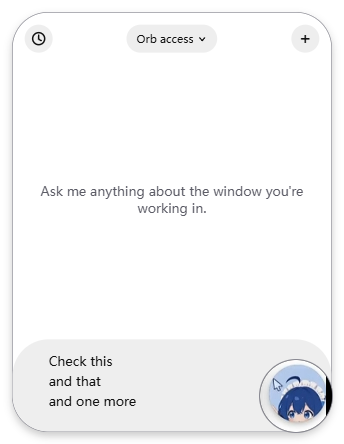
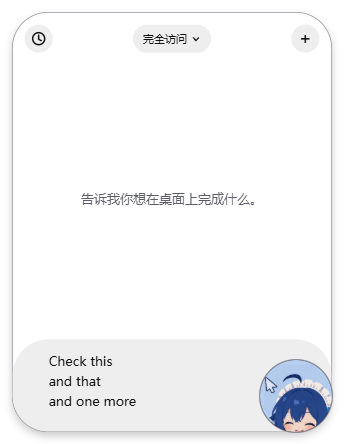
test: record Orb experience lifecycle and native input evidence

Changed region(s): [[0.1163, 0.4099, 0.8721, 0.4977], [0.7558, 0.7905, 0.9884, 0.9955], [0.407, 0.0586, 0.5814, 0.1171]]

diff --git a/doc/reference-playbook.md b/doc/reference-playbook.md
@@ -282,7 +282,7 @@ D:\workself\pi-orb\
 | 缺口 | 事实 | 影响 | 建议动作 |
 |---|---|---|---|
 | `coordinate-mode.ts` 只剩类型 | **已处理**：文件删除，像素模式未实现这一事实现在写在 `coordinates.ts` 的文件头里 | 像素编码（pixel 模式）在 pi-orb 不可表达 | 需要 pixel 时按固定提交恢复该文件与 `modelPositionToHid` 调用方，不要重新推导 |
-| 后端 7 个方法只声明未调用 | `inspectForeground`、`listApps`、`openApp`、`openInBrowser`、`openInFinder`、`copyImageToClipboard`、`backend.withGuiTurn` 无调用方（`ReferenceWindowsDriver` 只用 `listWindows`/`focusWindow` + `listScreens`/`capture`/`click`/`typeText`/`hotkey`/`longPress`/`drag`/`scroll`） | 模型拿不到 `inspectForeground` 的前台元数据（前台／非前台提示）；`list_apps`/`open_app`/`open_in_browser`/`open_in_finder`/`screenshot` 语义无落点 | 与 §7.1 的工具补齐一起做：先接进驱动与 Pi 工具，再接授权边界。`open_app` 另受 P2-04 的“目标重绑定规则确定后才开放”约束 |
+| 后端声明与实际调用范围 | `inspectForeground`、`listApps` 已接入；`openApp` 保留在 backend 合同，但 Pi 的切换应用使用 `activateApp`；`openInBrowser/openInFinder/copyImageToClipboard/backend.withGuiTurn` 不在生产调用链 | 这些未开放方法不构成已支持的工具；主进程自身 `withGuiTurn` 配对参考 overlay guard | 新增能力前查参考方法与授权边界，不把声明当成已接入 |
 | 捕获排除列表恒为空 | **已修复**：`ReferenceWindowsDriver.#withGuiTurn` 写入 Orb HWND 排除列表，主进程直接复用 `floating-window.ts:848-868,906-961` 的计数式 `contentProtection`／点击穿透；删除整窗隐藏路径 | 工具调用期间保留面板，不进入截图、不截获原生输入 | `floating-overlay-guard.ts` 及参考 5 项测试；Orb 前台下仍能观察原生目标 |
 | 前台提示文案被截断 | **已修复**：`UNFOCUSED_WINDOW_NOTE` 已恢复参考原句，并由 `tests/reference-windows-input.test.ts` 钉住字面量 | — | 保持；该测试就是防止再次被简写的绊线 |
 | 观察新鲜度的实现方式不同 | 参考**没有** observation id／陈旧校验／限流（`grep observationId\|stale\|throttle` 无命中），靠“工具互斥 + 每次动作后重拍 + 策略禁止批式依赖动作”保证 | pi-orb 的 `observationId` + 拒绝原因 + session/generation 授权是**本项目新增**（旧 per-task 的 12 动作/5 分钟预算已删除），不是参考语义 | 保留（这是授权边界所需），但文档里必须继续标注为 pi-orb 新增，不得说成“参考项目语义” |
@@ -386,8 +386,8 @@ D:\workself\pi-orb\
 ### 7.5 `orb_open_app` 的目标重绑定规则（pi-orb 收窄，非参考语义）
 
 参考工具的语义是“把正在运行的应用前置，**或者启动它**”（`<REF>/src/windows.ts:398-404`：
-`activateApp` 失败即 `launch`）。pi-orb 只保留前半段：当用户记录了一个窗口并授权一次任务时，
-“启动一个新进程”是用户没有授予的原生权限，因此这条路径上 `launch` 必须不可达。
+`activateApp` 失败即 `launch`）。pi-orb 的当前工具合同只保留前半段：session 完全访问允许切换
+已运行应用，自动启动尚未开放，因此这条路径上 `launch` 不可达。
 
 判定顺序（三步全过才重绑定，任一步失败都保留原目标并使动作失败）：
 
@@ -411,7 +411,7 @@ D:\workself\pi-orb\
 |---|---|---|
 | overlay 隐藏/点透（capture 期间排除自身，HID 期间点透） | `floating-window.ts` 的 `applyFloatingOverlayGuard`（`:938`）、`overlayWindowExcludeIds`（`:897`） | 已用等价机制接入（`withGuiTurn`）；改动浮球时必须回归 overlay 排除 |
 | overlay 包裹后端调用 | `<REF>/src/overlay-guard.ts:102-153`（`wrapDesktopBackend`） | 参考实现把 `capture/listScreens/inspectForeground/HID/openApp/withGuiTurn` 统一包裹；pi-orb 目前只包裹 `withGuiTurn`，如需更细粒度按此扩展 |
-| 观察框显示/隐藏并在 turn 结束时收起 | `<REF>/src/plugin.ts:268-275`（`turn/end` → `setObservationFrame(null)`） | pi-orb 无观察框；若 P2 接入，必须同样在 turn 结束与异常路径收起 |
+| 观察框显示/隐藏并在 turn 结束时收起 | `<REF>/src/plugin.ts:268-275`（`turn/end` → `setObservationFrame(null)`） | 已接入 `observation-frame.ts`；主进程 `withGuiTurn` 的 finally 和撤权路径收起 |
 | 用户批准／提问 | `<REF>` 的 user-approval / user-questions 相关包 | Access 芯片直接选择 `Read Only / Workspace Write / Full Access`；grant 绑定 Orb session 与 generation，不搬自动审批或 DSH 用户提问实现 |
 | 取消传播 | 参考 backend 的 `AbortSignal` 语义 | pi-orb 已接通 broker → driver → backend；C6 取消探针见 `evidence/p1-05/reference-cancel.json` |
 

diff --git a/evidence/README.md b/evidence/README.md
@@ -18,13 +18,14 @@
 | `p1-04/` | P1-04 明确授权的截图上下文：目标记录、DPI、拒绝路径零上传、text-only 拒绝、**真实窗口→预览→确认发送（正向路径）** | **通过**（41/41）；多屏/遮挡/高权限窗口未验证 |
 | `p1-05/` | P1-05 真机驱动验收：安装物哈希、运行时工具目录、坐标空间、后台点击、**前台点击与前台滚动投递**、输入读回、按键残留 | **通过**（只读 21/21、输入 27/27）；向 Chromium 内容输入文本、高权限窗口、多显示器未验证 |
 | `p1-06/` | P1-06 Orb 模式与工具闭环：工具仅限 Orb 模式、授权/预算/新鲜度、真实点击与滚动整链路、**截图取点↔输入落点同运行闭环（C7）** | 工具暴露 11/11、旧闭环 39/39；新 session-access 真实模型记录中 C7 在截图前失败、D6 因 `LockApp`/不可交互桌面中止、D8 本轮未完成，失败记录已保留，暂不宣称稳定通过 |
-| `p1-07/` | P1-07 发布门禁与生命周期：许可清单与 MPL 核实、可证伪门禁、折叠即撤权 | **通过**（门禁 66/66、当前 session Access 生命周期 12/12；旧 per-task 历史记录 10/10） |
+| `p1-07/` | P1-07 发布门禁与生命周期：许可清单与 MPL 核实、可证伪门禁、折叠即撤权 | **通过**（门禁历史 66/66、当前默认完全访问 session Access 生命周期 13/13；旧 per-task 历史记录 10/10）；首次服务启动失败记录单独保留 |
 | `p2-01/` | P2-01 参考 DeepSeek Orb 浮球几何与 Electron 窗口接入 | 浮球几何、拖动 IPC、贴边停靠、收起还原，以及**前端对参考设计令牌／`body.<state>` 布局状态／origin-based 展开动画的移植**均已接入；真实多屏、DPI、观察框 overlay 人工验收未完成 |
 | `p2-02/` | P2-02 双 Alt 快捷手势 | 左右 Alt 纯状态检测器和预览触发已接入；真实键盘验收未完成 |
 | `p2-03/` | P2-03 参考 history 与选区上下文 | 复用 pi-web 公开 session summary/detail API；workspace 过滤、历史绑定、文本恢复和 Windows UI Automation 选区 chip 已接入；真实 UIA 与原生工具栏仍未验收 |
 | `p2-04/` | P2-04 参考桌面动作扩展 | 复用参考项目 Windows backend 接入热键、长按、同窗口拖拽、授权后的动作后 image block 和显式截图导出；`orb_open_app` 收窄为只激活已运行应用（不启动进程）；真实桌面动作、目标像素、保存对话框、剪贴板与 open-app 真机效果仍待验收 |
 | `p2-05/` | P2-05 Windows x64 打包与分发 | **通过**（产物内容审计 25/25、打包产物启动探测 22/22，后者验证 session Access preload 合同与参考壳层）；干净机安装／卸载／升级与 SmartScreen 未验证 |
 | `p1-07/CONTRACT-MATRIX.md` | P1 合同对照：N1–N8 非破坏性不变量 + §7.1 发布必测项与 P1 证据映射 | 随每个发布版本维护 |
+| `frontend-port/` | 通用桌面体验：中文权限／工具过程、输入不收起、停止按钮和光标布局；真实打包 bridge → 原生输入 → 目标读回 | 交互探针与 native-target-probe 通过；不代替真实模型自主跨应用验收 |
 
 ## 复现方式
 

diff --git a/evidence/frontend-port/visual-review.md b/evidence/frontend-port/visual-review.md
@@ -20,6 +20,7 @@ the session flow uses a deterministic Pi Web HTTP/SSE fixture.
 | Pi model | — | [after](after-model.png) | Pi Web catalogue in reference-style popover. |
 | Pi screenshot preview | — | [visual fixture](after-preview-fixture.png) | Uses the Pi preview sheet and a synthetic editor image; this image does not prove native capture. |
 | Tool transcript | — | [after](after-tool-thread.png) | Pi Web tool events and assistant continuation render in the reference panel. |
+| Running tool and composer | — | [after](after-tool-running.png) | Compact Chinese status row; 36 px square stop icon; blank running input has transparent caret and no placeholder. |
 
 Before replacement: [ball](before-ball.png), [panel](before-panel.png).
 The old panel's setup screen, typography and controls diverged substantially
